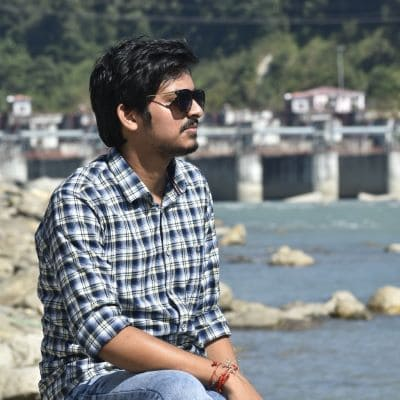
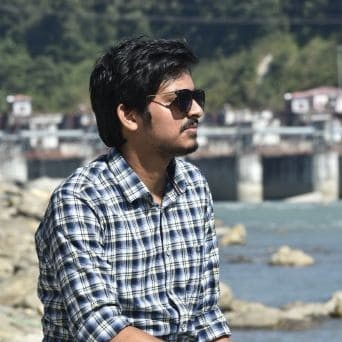
Profile Update

diff --git a/js/data/team.data.js b/js/data/team.data.js
@@ -6,12 +6,12 @@ let teamDetails = [
     {
         id: 1,
         name: "Utpalendu Barman",
-        avatar: "https://gdscjgec.github.io/assets/img/team/avatar_b.png",
+        avatar: "/assets/img/team/utpalendu_barman.jpg",
         desc: "Member Role",
 
-        githubLink: "#",
-        linkedinLink: "#",
-        twitterLink: "#",
+        githubLink: "https://github.com/utpalendubarman",
+        linkedinLink: "https://www.linkedin.com/in/utpalendubarman/",
+        twitterLink: "https://twitter.com/badhanbarman",
     },
     {
         id: 2,
@@ -46,12 +46,12 @@ let teamDetails = [
     {
         id: 5,
         name: "Shreya Paul",
-        avatar: "https://gdscjgec.github.io/assets/img/team/avatar_g.png",
+        avatar: "/assets/img/team/shreya_paul.jpg",
         desc: "Member Role",
 
-        githubLink: "#",
-        linkedinLink: "#",
-        twitterLink: "#",
+        githubLink: "https://github.com/paulshreya",
+        linkedinLink: "https://www.linkedin.com/in/shreya-paul-05a0a61aa/",
+        twitterLink: "https://twitter.com/__paul_shreya__",
     },
     {
         id: 6,

diff --git a/css/pages/index.css b/css/pages/index.css
@@ -1113,9 +1113,9 @@ section#team div.members .member_card:hover::after {
 }
 
 section#team div.members .member_card img {
-    margin: 1rem auto 2rem;
+    margin: 1rem auto;
     padding: 1rem;
-    width: 50%;
+    width: 60%;
     height: auto;
     background: rgba(62, 100, 255, 0.4);
     border-radius: 20px;
